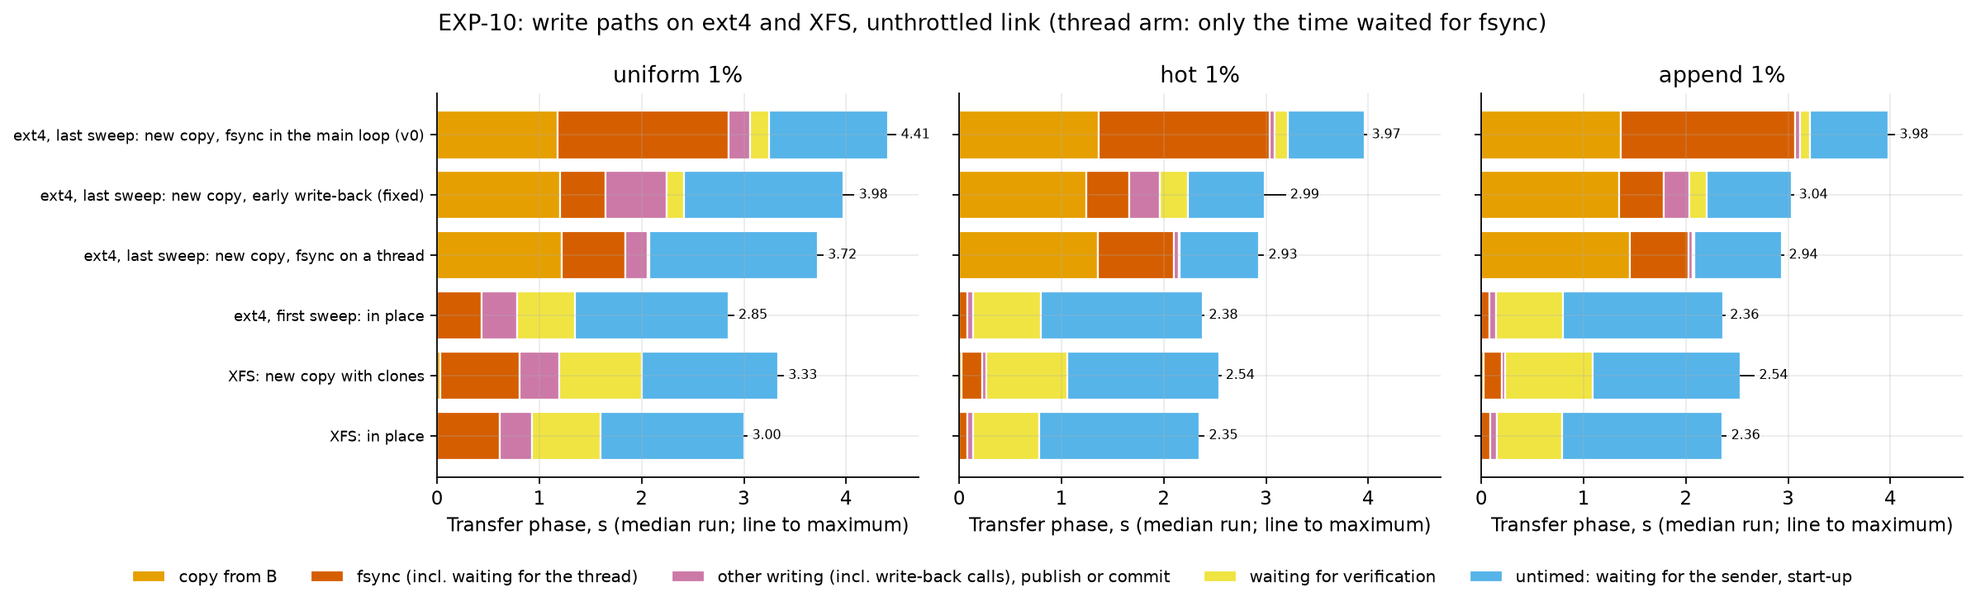
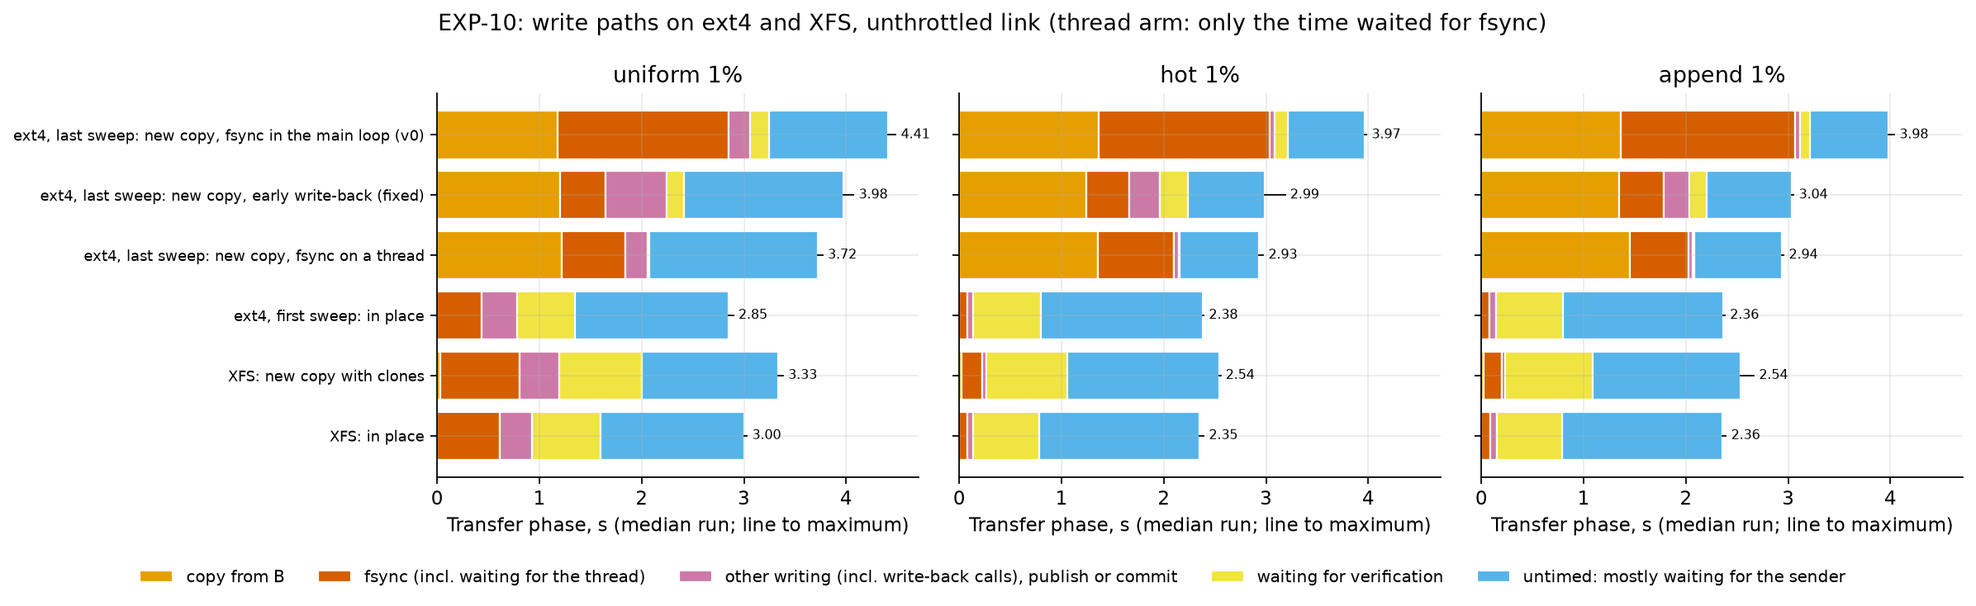
Fifth check: T9 keeps EXP-09's undecided band; the clone comparison is not presented as a bound; T10a, T11b and D02b made explicit
- EXP-10: the verifier's busy time (0.20-0.27 s longer than in place) and final wait (0.12-0.18 s) reported side by side, with what differs between the arms; ranges taken from raw values; the untimed part described by what it contains
- DECISIONS: T9's rule uses EXP-09's bands; T10a's tolerance and threshold; T11b's ages, WAL rate, B's age and every outcome; D02b graded C for correctness and D for speed
- README, pgdelta/README: block incremental's recovery time; same-sweep savings; fsync vs re-read of unchanged files; fixed anchor
- LOG: the second to fifth checks, each with what it found

Changed region(s): [[0.0619, 0.9292, 0.9281, 0.9591]]

diff --git a/analysis/exp09_10.py b/analysis/exp09_10.py
@@ -460,7 +460,7 @@ def fig_exp10_later(before, xfs, after):
     parts = [('copy from B', COLORS['orange']), ('fsync (incl. waiting for the thread)', COLORS['red']),
              ('other writing (incl. write-back calls), publish or commit', COLORS['purple']),
              ('waiting for verification', COLORS['yellow']),
-             ('untimed: waiting for the sender, start-up', COLORS['sky'])]
+             ('untimed: mostly waiting for the sender', COLORS['sky'])]
     fig, axes = plt.subplots(1, 3, figsize=(15, 4.2), sharex=True)
     seen = set()
     for ax, pattern in zip(axes, PATTERNS):

diff --git a/docs/DECISIONS.md b/docs/DECISIONS.md
@@ -282,7 +282,7 @@ The tests T0 to T14, and T11b, are described in the queue further down.
 |---|---|---|---|---|---|
 | D01 | Niche: refresh a lineage-free old copy from the live server, with no repository, verifying every reused page | C | No tool found that does this. The sponsor said most real backups aren't taken with pg_basebackup. A timeline-blind LSN shortcut keeps wrong pages, but real catch-up tools would refuse the failover case, so pgdelta's measured edge there is reuse (48% sent), not correctness. Same bytes as rsync; faster only for scattered changes at about 0.3-2 Gbit/s. *October 24 (EXP-08): against `pg_probackup catchup`, pgdelta has a correctness edge (it returned 928 + 167 missing rows on S2b and S2c, where staged pgdelta, rebuilding from a stopped backup, was correct; the live-server refresh is T8's to test); against WAL-G's checked catch-up, the edge is reuse (it refuses any copy on another timeline); against `pg_rewind`, pgdelta is the fallback when B lacks its WAL; against pgBackRest, the byte rule fired, partly on pgbench's compressibility (T4): "no repository needed", and on restore time pgBackRest is faster for scattered changes below about 6-9 Gbit/s. Grade stays C: against the catch-up tools and pg_rewind these are single runs at 200,000 rows with pgdelta staged; against pgBackRest, 3 repeats at 2.1 GB on one VM pair, with v1 reading a stopped source and a backup taken just before. The live-server refresh that defines the niche is T8's.* | How old real repository backups are, and the WAL replay that adds; live-source refresh (T8). | T8, T2, T11b |
 | D02 | Hand off to native incremental where it applies (not built yet) | A | Incremental was the fastest delta method in all 42 cells (for example hot at 2 Gbit/s: 4.05 s vs pgdelta 8.33 s), even reading B0 cold. *October 24: on XFS, `pg_combinebackup --copy-file-range` took 1.02-1.16 s for local changes, 1.22-1.36 s for the whole incremental refresh (EXP-10); The pg_rewind half is split off as D02b (October 24).* | Selector rules untested. | none yet |
-| D02b | (split from D02, October 24) Hand off to pg_rewind where B kept its WAL back to the fork | C | EXP-08: `pg_rewind` repaired S2 and S2b, and S2c on rows and amcheck, with one catalog page wrong by check 3 (most likely the source's own later change, unconfirmed). One run per scenario at 200,000 rows on one VM. | Its speed against pgdelta was never measured; the selector. | none yet |
+| D02b | (split from D02, October 24) Hand off to pg_rewind where B kept its WAL back to the fork | C (correctness); speed D | EXP-08: `pg_rewind` repaired S2 and S2b, and S2c on rows and amcheck, with one catalog page wrong by check 3 (most likely the source's own later change, unconfirmed). One run per scenario at 200,000 rows on one VM. | Its speed against pgdelta was never measured (hence D for that side); the selector. | none yet |
 | D03 | Don't claim to beat a parallel full copy on fast LANs; report the crossover | B | No staged method beat a full copy unthrottled. Crossovers 1.97-2.47 Gbit/s; even a zero-overhead copy would lower them only about 20%. *October 24 (EXP-09): v1's path takes 0.86 of a single-stream copy unthrottled for local changes; against T2's registered 2.0-3.0 s parallel copy it would be 0.90-1.35.* | v1's standing: its transfer alone crosses 5.0-9.9 Gbit/s against today's copy but 3.2-3.8 against a zero-overhead one. | T2 |
 | D04 | A program on each host; only digests and differing pages cross the link | B | Wire bytes 27.6-29.2 MB (local) and 610 MB (uniform), vs 2,102-2,112 MB. The transfer phase costs 4.9-6.4 source CPU-s, twice a whole full copy. | ~~Sponsor permission~~ allowed (O3). Slowdown never measured; its bar is now pg_basebackup's (O4). | T10a |
 | D05 | Standalone tool, no PostgreSQL patch | C | Scope reasons; raw reads outside the server ran at 2.87 GB/s. | None for performance. | none |
@@ -360,7 +360,7 @@ The tests T0 to T14, and T11b, are described in the queue further down.
 | D60 | Stream only the WAL written | A | 16.8 MB of padding per run; incremental sent 15.7-17.4 MB vs 27.6-29.2. | Small effect on time. | T8 |
 | D61 | (3) Prepare O during the capture | – | Targets the measured 3.3 s; the saving itself was never measured. rsync's copy fit under the capture in every run. *Dropped October 23 (O9); its v1 equivalents were measured instead: in place (D85) and clones (D86).* | Moot. | none |
 | D85 | (added October 24) v1 patches B in place behind a startup block by default | A | EXP-10 (e), Linux, pre-registered, 5 runs per workload: transfer 2.36-2.85 s against 3.94-4.44 s for v0's new copy; 0.6-0.9 s faster than a new copy with the fsync on a thread. Allowed by O5; the startup block and rerun are covered by tests (a killed receiver leaves B unstartable; a rerun completes it). | Crash-injection at scale; beyond RAM. | T13, T9 |
-| D86 | (added October 24) The new-copy mode, kept for copies that must survive: fsync on a background thread, and clones where the filesystem has reflinks | B | EXP-10 (b), (d): the thread saves 0.68-1.00 s (first sweep; 0.69-1.04 s in the rerun's sweep), and the fixed early write-back 0.43-0.98 s in that same sweep, so the thread wins every workload, by 0.05-0.25 s. On XFS, clones bring the write phase to 0.25-1.18 s, but for local changes only about half of that saving reaches the transfer: the main loop then waits longer for the verifier and for the sender, much as in place does, and its final wait for the verifier is 0.13-0.18 s longer than in place's. A new copy ends within 0.19 s of in place for local changes (0.33 s uniform). | Thread against write-back is a small margin on one VM pair; clones beyond RAM. | T9 |
+| D86 | (added October 24) The new-copy mode, kept for copies that must survive: fsync on a background thread, and clones where the filesystem has reflinks | B | EXP-10 (b), (d): the thread saves 0.68-1.00 s (first sweep; 0.69-1.04 s in the rerun's sweep), and the fixed early write-back 0.43-0.98 s in that same sweep, so the thread wins every workload, by 0.05-0.25 s. On XFS, clones bring the write phase to 0.25-1.18 s, but for local changes only about half of that saving reaches the transfer: the main loop then waits longer for the verifier and for the sender, much as in place does, and its final wait for the verifier is 0.12-0.18 s longer than in place's. A new copy ends within 0.19 s of in place for local changes (0.33 s uniform). | Thread against write-back is a small margin on one VM pair; clones beyond RAM. | T9 |
 
 ### Measurement and harness
 
@@ -443,7 +443,7 @@ Ranked by how much each test could change the plan per unit of cost. Each test's
 - **Question:** with a fixed-rate pgbench or HammerDB load on the source, how much do throughput and p95 latency drop? Compare against no backup at all, during a full copy, the capture, pgdelta and rsync, at 0.5 and 2 Gbit/s. Check every output: `pg_verifybackup`, recovery, and a logical match.
 - **Prediction:** the slowdown tracks source CPU. pgdelta uses about 4 times the full copy's source CPU, so its total throughput loss is 2-4 times the full copy's at 2 Gbit/s, and still higher at 0.5 Gbit/s. Every output is correct.
 - **Proves it wrong:** if pgdelta's loss is no higher than the full copy's where it wins on time, source CPU isn't a blocker. If it is higher, report slowdown next to time and move T5 ahead of T8. Any wrong output stops speed work.
-- *Added October 24: before T8, T10a measures staged pgdelta only, whose capture v1 removes. So judge it as slowdown per source CPU-second and project that to v1's 5.3-6.0 CPU-s (EXP-09); the rule to move T5 ahead of T8 uses that projection. v1's own arm, reading a live source in backup mode, is added once T8 exists.*
+- *Added October 24: before T8, T10a measures staged pgdelta only, whose capture v1 removes. So judge it as slowdown per source CPU-second. "Tracks" means that rate is within 1.5 times between the full copy and staged pgdelta. If it is, project v1's loss from its 5.3-6.0 CPU-s (EXP-09): that gives 2.8-3.75 times the full copy's loss, and T5 moves ahead of T8 if the projection exceeds 2 times, as it would. If it isn't, the T5/T8 order waits for v1's own arm. v1's own arm, reading a live source in backup mode, is added once T8 exists.*
 
 ### T11 Incumbent tools where pgdelta claims its edge (done October 24, 2026)
 - **Pre-registered in full as [EXP-08](experiments/EXP-08-incumbent-tools.md)** (October 23, 2026), with the arms and predictions added there before running.
@@ -512,10 +512,14 @@ Ranked by how much each test could change the plan per unit of cost. Each test's
 
 ### T11b pgBackRest from a realistically old backup (added October 24, 2026)
 - **Why:** EXP-08 counted pgBackRest's backup as already paid and took it just before each restore. The WAL its restores replayed (2-45 files, nearly empty) was mostly a backlog the harness created, not the hours of changes a real backup's WAL carries. Omni clusters with a BackupPlan have a repository, but their newest backup can be hours old. And EXP-08's v1 arm read a stopped source, which needs no recovery; a live-source v1 will.
-- **Question:** with backups 1 hour and 24 hours old, written under a fixed-rate load, how long does `restore --delta` plus WAL replay to the source's current point take, and how many bytes does it move, against pgdelta's v1 path from the live source? Arms: pgBackRest with zstd and with block incremental, from a full backup plus its incrementals.
+- **Question:** with backups 0, 15 and 60 minutes and 24 hours old, written under a fixed pgbench load whose WAL rate (MB/s) is fixed before running, how long does `restore --delta` plus WAL replay to the source's current point take, and how many bytes does it move, against pgdelta's v1 path from the live source? pgdelta's old copy B is as old as the backup. pgBackRest runs with zstd and with block incremental, from a full backup plus its incrementals.
 - **Arms:** backups 0, 15 and 60 minutes and 24 hours old, at 0.5 and 2 Gbit/s; both methods timed to a usable copy, including recovery.
 - **Prediction:** pgBackRest's recovery grows with the WAL written since the backup, by more than EXP-08's 0.38 s per file, which came from nearly empty segments (a lower bound). pgdelta's live v1 path depends on the changed pages, not on the WAL. For scattered changes at 0.5 Gbit/s, where pgBackRest with a fresh backup is faster on restore time, pgdelta becomes faster before the backup is 15 minutes old. At 2 Gbit/s, pgdelta is faster at every age; there the test mainly measures the live v1 path's own recovery overhead.
-- **Proves it wrong:** if pgBackRest from a 60-minute-old backup reaches a usable copy first at either speed, clusters with a recent backup should restore from it instead, and the pitch to them is bytes and "no repository needed" only.
+- **Outcomes, checked in this order:**
+  - pgBackRest from a 60-minute-old backup reaches a usable copy first at either speed: clusters with a recent backup should restore from it, and the pitch to them is bytes and "no repository needed" only.
+  - pgBackRest first at 15 minutes but not at 60, at 0.5 Gbit/s: the prediction fails; report the crossing age, and pitch pgdelta's speed only for backups older than it.
+  - pgBackRest first at some age at 2 Gbit/s but not at 60 minutes: the live v1 path's own overhead exceeds EXP-08's margin; report it for T5 and T13.
+  - Otherwise the prediction holds.
 - **Needs:** T8's live-source path.
 
 ### T12 Latency and transport
@@ -541,7 +545,7 @@ Ranked by how much each test could change the plan per unit of cost. Each test's
 - **Question:** what changes at 100-200 GB on 32 GB machines? Count disk passes on each side.
 - **Prediction:** per-GB times stay within 20% of the 2.1 GB numbers, and verification becomes a real disk pass of at least 0.5 s per GB.
 - **Proves it wrong:** per-GB times more than 1.5 times the small-scale numbers.
-- *Added October 24: v1's path and the full copy on persistent disks (GKE's default), 5 repeats each, beside the local NVMe. Both move about 2.1 GB through the destination's disk: the full copy writes it, and v1 reads all of B to hash it (and re-reads it to verify once it no longer fits the cache). Prediction: the ratio moves toward 1.0, to 0.9-1.1. Rule: at most 0.9 means EXP-09's HA result holds on persistent disks; above 0.9 means it fails there, and on persistent disks v1 targets DR first.*
+- *Added October 24: v1's path and the full copy on persistent disks (GKE's default), 5 repeats each, beside the local NVMe. Both move about 2.1 GB through the destination's disk: the full copy writes it, and v1 reads all of B to hash it (and re-reads it to verify once it no longer fits the cache). Prediction: the ratio moves toward 1.0, to 0.9-1.1. Rule, EXP-09's bands on medians of 5: at most 0.9 for both hot and append means the HA result holds on persistent disks; 1.0 or more for either means v1 targets DR first there; in between is undecided until T2 and T5, as in EXP-09.*
 
 ### T4 Offline bytes: units smaller than a page, and compression
 - **Added October 23, 2026 (from EXP-08's pre-registration):** also measure zstd on the changed files of the TPROC-C pairs. pgBackRest restores whole changed files, and EXP-08's I8b expects its zstd variant to send fewer bytes than pgdelta only because pgbench's rows compress unusually well.

diff --git a/docs/experiments/EXP-10-write-path.md b/docs/experiments/EXP-10-write-path.md
@@ -123,7 +123,7 @@ An independent reviewer checked the first version before anything ran. Changes:
 
 ![EXP-10: write paths on ext4 and XFS](../figures/exp10-xfs-and-rerun.svg)
 
-How to read it: each bar is one arm's median run, split by the receiver's own timers. The three ext4 new-copy bars come from the last sweep, so they compare within one session; the ext4 in-place bar comes from the first. The orange and red parts are the copy and the flush that dominated v0. The fixed write-back's flushing calls (medians 0.21–0.35 s, pgdelta's `writeback_seconds`) aren't in the run records the figure reads, so they fall in the purple part. The blue part is untimed: the main loop waiting for the sender's messages, plus about 0.17 s of start-up outside pgdelta's own timers. For local changes, in place and the new copy on XFS write almost nothing, so most of their time is the blue part and the final wait for the verifier (yellow). The bottom two bars compare a new copy on XFS with in place. By the medians of each timer (the bars are single runs and differ a little), for local changes the new copy's write phase is 0.11–0.13 s longer and its final wait for the verifier 0.13–0.18 s longer, partly offset by 0.07–0.12 s less untimed waiting; for uniform the gap is mostly the write phase (1.18 against 0.91 s, most of it fsync).
+How to read it: each bar is one arm's median run, split by the receiver's own timers. The three ext4 new-copy bars come from the last sweep, so they compare within one session; the ext4 in-place bar comes from the first. The orange and red parts are the copy and the flush that dominated v0. The fixed write-back's flushing calls (medians 0.21–0.35 s, pgdelta's `writeback_seconds`) aren't in the run records the figure reads, so they fall in the purple part. The blue part is untimed: mostly the main loop waiting for the sender's messages, plus opening each file, in place's startup block, and about 0.17 s of start-up outside pgdelta's own timers. For local changes, in place and the new copy on XFS write almost nothing, so most of their time is the blue part and the final wait for the verifier (yellow). The bottom two bars compare a new copy on XFS with in place. By the medians of each timer (the bars are single runs and differ a little), for local changes the new copy's write phase is 0.11–0.13 s longer and its final wait for the verifier 0.12–0.18 s longer, partly offset by 0.07–0.12 s less untimed time; for uniform the gap is mostly the write phase (1.18 against 0.91 s, most of it fsync).
 
 **No session drift** (unthrottled medians, seconds unless stated). The source side and the full copy are the same in all three sweeps:
 
@@ -156,7 +156,7 @@ How to read it: each bar is one arm's median run, split by the receiver's own ti
 | hot | 2.35 (2.39) | 0.19 | 0.05 (0.06) | 1.16 (1.18) | 1.36 (1.39) |
 | append | 2.36 (2.39) | 0.18 | 0.05 (0.06) | 1.02 (1.03) | 1.22 (1.24) |
 
-**With clones, the write phase almost disappears for local changes, but only about half of that saving reaches the transfer.** Copying B's bytes takes 0.03 s instead of 1.2–1.4 s, and the fsync falls to 0.2 s (0.8 s for uniform). For local changes the write phase falls by 2.76–2.84 s, but the transfer by only 1.40–1.44 s. Against either ext4 sweep, the main loop spends 0.64–0.72 s longer in its final wait for the verifier, and 0.68–0.77 s longer in untimed waiting. The untimed part is the main loop waiting for the sender's messages; by the protocol, the sender sends a file's changed pages only after it has B's digests for that file. The background work also took longer: hashing B by 0.23–0.25 s, and the verifier's busy time by 0.58–0.60 s.
+**With clones, the write phase almost disappears for local changes, but only about half of that saving reaches the transfer.** Copying B's bytes takes 0.03 s instead of 1.2–1.4 s, and the fsync falls to 0.2 s (0.8 s for uniform). For local changes the write phase falls by 2.76–2.84 s, but the transfer by only 1.40–1.44 s. Against either ext4 sweep, the main loop spends 0.64–0.72 s longer in its final wait for the verifier, and 0.68–0.77 s longer in untimed waiting. The untimed part is mostly the main loop waiting for the sender's messages (it also includes opening each file, in place's startup block, and about 0.17 s outside pgdelta's timers); by the protocol, the sender sends a file's changed pages only after it has B's digests for that file. The background work also took longer: hashing B by 0.24–0.25 s, and the verifier's busy time by 0.58–0.60 s.
 
 | Workload | Arm | transfer | write phase | final wait for the verifier | other (untimed) | hashing B | verifier busy |
 |---|---|---:|---:|---:|---:|---:|---:|
@@ -169,9 +169,9 @@ How to read it: each bar is one arm's median run, split by the receiver's own ti
 |  | XFS, new copy | 2.54 | 0.25 | 0.85 | 1.44 | 1.40 | 1.92 |
 |  | XFS, in place | 2.36 | 0.14 | 0.66 | 1.56 | 1.44 | 1.70 |
 
-(Medians, seconds. "Other" is the transfer minus the write phase and the final wait; it includes about 0.17 s of start-up outside pgdelta's own timers. Hashing B and the verifier run on background threads.)
+(Medians, seconds. "Other" is the transfer minus the write phase and the final wait: mostly waiting for the sender, plus per-file opens, in place's startup block, and about 0.17 s of start-up outside pgdelta's own timers. Hashing B and the verifier run on background threads.)
 
-**What the timers can and can't say.** In place on ext4, with no clones, shows most of the same growth: a 0.65 s final wait, 1.43 s hashing B and 1.68–1.69 s of verifier time. The two background threads draw on the same four pool workers, so one reading is that once the write phase is gone they compete for them; the timers can't separate that from CPU or disk time. Against in place on XFS, the new copy waits 0.13–0.18 s longer for the verifier, whose busy time is 0.20–0.22 s longer (0.10 s and 0.27 s for uniform). No timer counts disk reads, and the two arms also differ in the new copy's per-file fsync, so this doesn't isolate the cost of verifying cloned pages that aren't in the page cache, the risk the revision registered. It does bound it at a few tenths of a second, well short of the 0.64–0.72 s rise against ext4. Across all the pipelined arms, every one whose write phase is 1.2 s or less waits 0.57–0.85 s for the verifier at the end, and every one with about 2 s or more waits 0.01–0.24 s.
+**What the timers can and can't say.** In place on ext4, with no clones, shows most of the same growth: a 0.65 s final wait, 1.43 s hashing B and 1.68–1.69 s of verifier time. The two background threads draw on the same four pool workers, so one reading is that once the write phase is gone they compete for them; the timers can't separate that from CPU or disk time. Against in place on XFS, the new copy's verifier is busy 0.20–0.22 s longer (0.27 s for uniform), and its final wait is 0.12–0.18 s longer (0.10 s for uniform). Every staged run prefetched all of B, so in place verified pages that were in the page cache, and the cloned copy's were not, which is the risk the revision registered. But no timer counts disk reads, and the two arms also differ in their write phase: the new copy's fsyncs take 0.185–0.197 s against in place's 0.074–0.076 s, and it creates, clones and publishes every file. So this doesn't measure what verifying uncached clones costs; the busy-time difference suggests a few tenths of a second, not the 0.64–0.72 s the final wait rose by against ext4. Across EXP-10's pipelined arms, every one whose write phase is 1.2 s or less waits 0.57–0.85 s for the verifier at the end, and every one with about 2 s or more waits 0.01–0.24 s. The timers don't show why, and within the short arms the wait doesn't follow the write phase's length: uniform on XFS has the longest of both.
 
 Even so, building a complete new copy on XFS is within 0.19 s of patching in place for local changes, and 0.33 s for uniform, while leaving B intact.
 

diff --git a/docs/LOG.md b/docs/LOG.md
@@ -3,26 +3,31 @@
 A dated record of what was done, why, and what came out of it. Newest entries first.
 Experiments have their own write-ups in [docs/experiments/](experiments/).
 
-## 2026-10-24 (later): two more rechecks; EXP-10's verdict on (b) corrected
+## 2026-10-24 (later): four more rechecks; EXP-10's verdict on (b) corrected
 
-**Why:** the first rechecks ran before EXP-10's XFS arm and the write-back rerun existed, and before the ledger, README and index were updated. So a second independent recheck covered those, against the raw sweeps and the write-ups.
+**Why:** the first rechecks ran before EXP-10's XFS arm and the write-back rerun existed, and before the ledger, README and index were updated. So a second independent recheck covered those, against the raw sweeps and the write-ups. Each round of corrections was then checked again, because a correction can itself be wrong, and twice one was.
 
-**Found:** 21 problems, 4 major, corrected in commit bdd61c9:
+**Second recheck:** 21 problems, 4 major, corrected in commit bdd61c9:
 - **(b) was judged against its registration.** I had compared the rerun's fsync thread with the rerun's baseline and called (b) held for local changes. The dated note allowed the rerun to replace only the write-back measurement. Judged that way, (b) failed in all three workloads (the better alternative saves 0.68, 0.99 and 0.996 s). The rule's outcome is unchanged: the fsync moves to a thread. For local changes the saving sits on the 1.0 s line in every way of counting it (0.99–1.04 s).
 - **The summaries had dropped caveats** that the write-ups keep: pgdelta ran in staged mode in T11, so its edge over `pg_probackup` is not yet shown from a live server; v1's 2.7 s was on a stopped source, and T2's registered prediction would reverse it.
 - **Two grades:** D53 (copy-then-patch) goes from A to B, since it ties gap-fill and its XFS advantage is inferred; D87 duplicated D58 and is folded into it. The October 24 scorecard is now 6 A, 6 B, 5 C, 12 D, 3 X and 3 moot.
 - **EXP-10 now reports the verifier's wait,** as its revision required.
 - **One queue,** not two that disagreed, and a section for T11b.
 
-**Then a third check, of those corrections themselves,** found that one of them was wrong (2 major, 15 minor, all now corrected):
-- **My explanation of the clone result was wrong.** I had written that about half of the write phase's saving on XFS comes back as the verifier reading cloned pages from disk. For local changes the write phase falls 2.8 s and the transfer only 1.4 s. Of the 1.4 s that doesn't reach the transfer, about half is the main loop's final wait for the verifier and half is untimed waiting for the sender.
+**Third check, of those corrections** (2 major, 15 minor; commit 49e0102):
+- **My first explanation of the clone result was wrong.** I had written that about half of the write phase's saving on XFS comes back as the verifier reading cloned pages from disk. For local changes the write phase falls 2.8 s and the transfer only 1.4 s; the final wait for the verifier is only about half of the 1.4 s that doesn't reach the transfer. I replaced it with an explanation the fourth check then rejected (below).
 - **The README listed two risks to v1's HA result** where EXP-09 names four (T2, T8, beyond RAM, persistent disks).
-- **D01 goes back to C:** its positioning against the incumbents was never measured from a live server, which is T8's. D02's pg_rewind half is split off as D02b (C).
-- Also: the figure now compares the ext4 new-copy arms within one sweep; the summaries give pgBackRest's registered time-rule outcome; stale passages in the ledger carry dated notes; T10a, T9 and T11b say what they can and can't measure.
+- **D01 goes back to C:** its positioning against the incumbents was never measured from a live server, which is T8's. D02's A was scoped to the incremental hand-off.
+- Also: the figure compares the ext4 new-copy arms within one sweep; the summaries give pgBackRest's registered time-rule outcome; stale passages in the ledger carry dated notes.
 
-**And a fourth check, of the third round's fixes,** found my replacement explanation still claimed more than the timers show (2 major in EXP-10, 4 in the ledger, 11 minor; all now corrected):
-- **The timers can't say why the main loop waits.** No timer counts disk reads, and the untimed part has no breakdown. EXP-10 now reports what they do show: the final wait for the verifier and the untimed wait both grow, the background hashing and verifying take longer, and in place on ext4, with no clones, shows most of the same growth. Against in place on XFS, a new copy's final wait is 0.13–0.18 s longer, which bounds what verifying uncached cloned pages could cost.
-- **Ledger:** D02's pg_rewind half becomes its own row, D02b (C); the T9 persistent-disk note predicted the wrong direction (both methods move 2.1 GB through the disk, so the ratio should rise toward 1.0); T11b's arms now bracket the crossing it reports; T10a judges slowdown per source CPU-second; three dates corrected (arm (e) ran October 23).
+**Fourth check, of the third round's fixes** (6 major, 11 minor; commit 7c33cfc):
+- **My second explanation still claimed more than the timers show.** It said the extra waiting was mostly hashing B, and that in place's similar wait showed reading cloned pages adds only 0.13–0.18 s. No timer counts disk reads, and the untimed part has no breakdown. EXP-10 now reports only what the timers show: the final wait for the verifier and the untimed time both grow, the background hashing and verifying take longer, and in place on ext4, with no clones, shows most of the same growth.
+- **Ledger:** D02's pg_rewind half becomes its own row, D02b; the T9 persistent-disk note predicted the wrong direction (both methods move 2.1 GB through the disk, so the ratio should rise toward 1.0); T10a judges slowdown per source CPU-second; three dates corrected (arm (e) ran October 23).
+
+**Fifth check, of the fourth round's fixes** (2 major, 12 minor; corrected in the next commit):
+- **T9's new rule had dropped EXP-09's undecided band** (0.9–1.0) and its "both hot and append" condition; it now uses EXP-09's bands.
+- **This log entry had again presented the 0.12–0.18 s difference in the final wait as a bound** on verifying uncached clones. The final wait only measures the verifier's backlog at the end; its busy time rose 0.20–0.27 s against in place. EXP-10 now says the comparison doesn't measure that cost and suggests a few tenths of a second.
+- Also: D02b graded C for correctness and D for speed; T11b's ages, WAL rate and every outcome made explicit; T10a's "tracks" given a tolerance and its rule a threshold; two ranges re-rounded from raw values (0.12–0.18 s, 0.24–0.25 s); the README's block-incremental tie now notes its recovery time; pgdelta's README separates skipping fsyncs from skipping re-reads.
 
 **Added:** the figure [exp10-xfs-and-rerun](figures/exp10-xfs-and-rerun.svg); the later sweeps' runs as [exp10-later-runs.csv](experiments/data/exp10-later-runs.csv); `exp10_later` now prints the tables and every derived figure EXP-10's later sections cite, with maxima and ranges.
 

diff --git a/pgdelta/README.md b/pgdelta/README.md
@@ -2,7 +2,7 @@
 
 `pgdelta` rebuilds a new copy O of a fresh physical backup S at a destination that already holds an older copy B. Only pages whose keyed hash differs cross the link. Every output file is re-hashed and checked against the source digest before O is published by a single rename.
 
-Three switches added for T3 and T8a change that, each off by default: `--in-place` refreshes B itself instead of building O, `--fsync` moves where files are flushed, and `--source-kind datadir` reads a stopped data directory instead of a backup. See [Switches for T3 and T8a](#switches-for-t3-and-t8a-added-not-yet-measured).
+Three switches added for T3 and T8a change that, each off by default: `--in-place` refreshes B itself instead of building O, `--fsync` moves where files are flushed, and `--source-kind datadir` reads a stopped data directory instead of a backup. See [Switches for T3 and T8a](#switches-for-t3-and-t8a-measured-in-exp-09-and-exp-10).
 
 Python 3.10+, standard library only, POSIX (Linux, macOS). Design: [docs/SPEC.md](../docs/SPEC.md) sections 2 and 4 to 7.
 
@@ -92,7 +92,7 @@ Each switch below can be turned on or off on its own, for [EXP-06](../docs/exper
   - Each worker also exits on its own as soon as its parent process is gone, even after SIGKILL.
 - **Calling pgdelta from Python** with `jobs` above 1 (`run_sender`, `run_receiver`) needs the usual multiprocessing guard in the main module, `if __name__ == '__main__':`. `spawn` and `forkserver` import the main module in every worker. `python -m pgdelta` and `python -m unittest` are already safe.
 
-### Switches for T3 and T8a (measured October 23–24)
+### Switches for T3 and T8a (measured in EXP-09 and EXP-10)
 
 Added for [T3](../docs/DECISIONS.md) arms (b) and (e) and for T8a, after the owner's decisions of October 23, 2026 (O5: B may be patched in place). They were measured in [EXP-09](../docs/experiments/EXP-09-direct-read.md) and [EXP-10](../docs/experiments/EXP-10-write-path.md): in place is v1's chosen default, and the new-copy mode's fsync moves to a thread (D85, D86). The code's defaults still keep v0's behaviour until v1 is built. `local` passes the receiver's switches on to its child receiver.
 
@@ -403,8 +403,8 @@ Byte counts include the 5-byte frame headers, but not TCP/IP overhead. The categ
   - No cross-file matching.
   - No timeouts on a peer that stalls without closing.
 - The HELLO inventory must fit in one 64 MiB frame, which is roughly 700,000 files.
-- By default the fsync of each output file stays in the receiver's main loop, before the file goes to verification. On Linux, flushing a large file can cost more than writing it; `timings_seconds.fsync` shows how much. `--fsync writeback` and `--fsync worker` move it. In EXP-10 the worker saved 0.68–1.00 s and the fixed write-back 0.43–0.98 s; the default stays `main` until v1 is built.
-- In place, every file of S is fsynced and verified, including files no page of which changed. On ext4 an fsync of a clean file can still flush the device's cache; in EXP-10 (e) the whole write phase, fsyncs included, took 0.14 s for local changes, so skipping unchanged files would save little there.
+- By default the fsync of each output file stays in the receiver's main loop, before the file goes to verification. On Linux, flushing a large file can cost more than writing it; `timings_seconds.fsync` shows how much. `--fsync writeback` and `--fsync worker` move it. In the same EXP-10 sweep the worker saved 0.69–1.04 s and the fixed write-back 0.43–0.98 s (the worker saved 0.68–1.00 s in an earlier sweep); the default stays `main` until v1 is built.
+- In place, every file of S is fsynced and verified, including files no page of which changed. On ext4 an fsync of a clean file can still flush the device's cache; in EXP-10 (e) the whole write phase, fsyncs included, took 0.14 s for local changes, so skipping the fsync of unchanged files would save at most about 0.08 s there. Skipping their re-read would change what verification guarantees (ledger D41), and could save up to the 0.65 s final wait for the verifier.
 - `--source-kind datadir` reads only stopped clusters (T8a). Backup mode on a running server, WAL streaming and a `backup_manifest` are v1's (T8).
 - `--source-kind datadir` sends one WAL segment, the one where the shutdown checkpoint record starts. A record that starts in the last hundred or so bytes of a segment continues in the next one, which isn't sent, and that copy would not start (a chance of about 1 in 100,000 per shutdown; never seen in the tests, each of which starts its copy).
 - Verification re-reads O through the page cache, as it always has, so it checks what the kernel will write, not the medium itself.

diff --git a/README.md b/README.md
@@ -19,7 +19,7 @@ A CMU student project with Google's AlloyDB team: a tool that brings an older ph
 - **New results (October 24)** ([EXP-08](docs/experiments/EXP-08-incumbent-tools.md), [EXP-09](docs/experiments/EXP-09-direct-read.md), [EXP-10](docs/experiments/EXP-10-write-path.md)), all pre-registered and independently rechecked:
   - **v1's path:** on a stopped source, reading its files directly and patching the old copy in place takes 2.7 s for local changes, against 3.1 s for a single-stream full copy on the fastest link: a ratio of 0.86, about 0.1 s inside the HA rule's 0.9, on one VM pair. Four untested things could undo it ([EXP-09](docs/experiments/EXP-09-direct-read.md)): a parallel full copy (T2, whose registered 2.0–3.0 s would reverse it), reading a live source in backup mode (T8), data beyond RAM, where verification stops reading from the page cache (T9), and persistent disks.
   - **Incumbent tools:** `pg_probackup catchup` silently returned wrong data on two diverged old copies that pgdelta rebuilt correctly, in its staged mode from a stopped backup (a refresh from the live server is T8's to test). WAL-G's checked catch-up refuses them. `pg_rewind` repairs them when the old copy kept its WAL, apart from one system-catalog page on one of them, which is wrong data by the registered check; most likely it is the source's own later change, but that is unconfirmed.
-  - **pgBackRest:** with a current backup in its repository, it sends fewer bytes for scattered changes, partly because pgbench's rows compress unusually well (T4 checks realistic data). So the pitch is "no repository needed". On restore time, with a backup taken just before, pgdelta's v1 path (on a stopped source) is faster than pgBackRest with zstd for local changes, and pgBackRest with zstd is faster for scattered changes below about 6–9 Gbit/s; pgBackRest's block incremental ties v1 for append.
+  - **pgBackRest:** with a current backup in its repository, it sends fewer bytes for scattered changes, partly because pgbench's rows compress unusually well (T4 checks realistic data). So the pitch is "no repository needed". On restore time, with a backup taken just before, pgdelta's v1 path (on a stopped source) is faster than pgBackRest with zstd for local changes, and pgBackRest with zstd is faster for scattered changes below about 6–9 Gbit/s; pgBackRest's block incremental ties v1 for append on restore time, before 2 s or more of recovery that v1's stopped-source path didn't need.
 - **Next:** the fastest durable full copy (T2), the slowdown of a live source (T10a), and backup-mode reads on a live source (T8). See the [re-ranked queue](docs/DECISIONS.md#experiment-queue).
 - **Measurement harness: built.** Backup and restore checks, resource sampling, the HammerDB slowdown driver, and a two-VM network benchmark ([experiments/network/](experiments/network/README.md)).
 - **Research: done.** [What already exists and where the gap is](docs/research/state-of-the-art.md).
